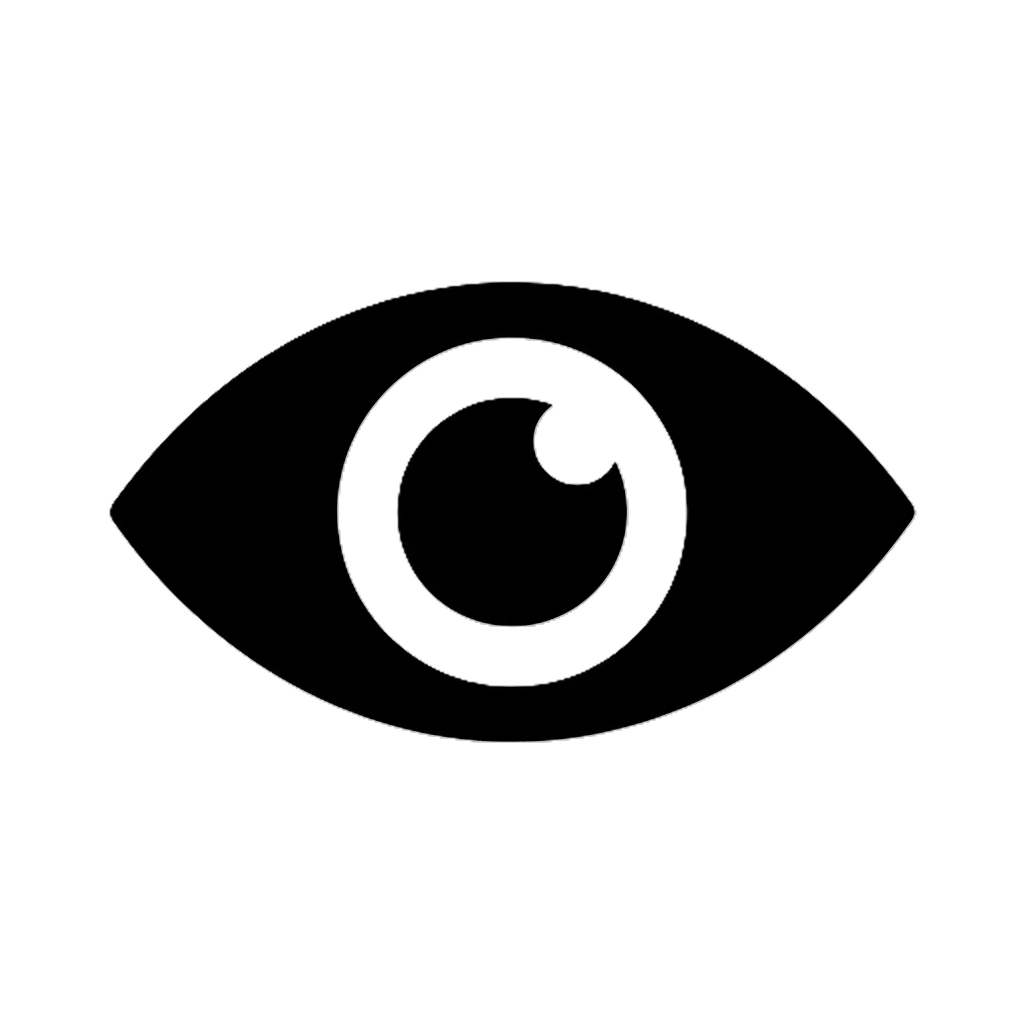
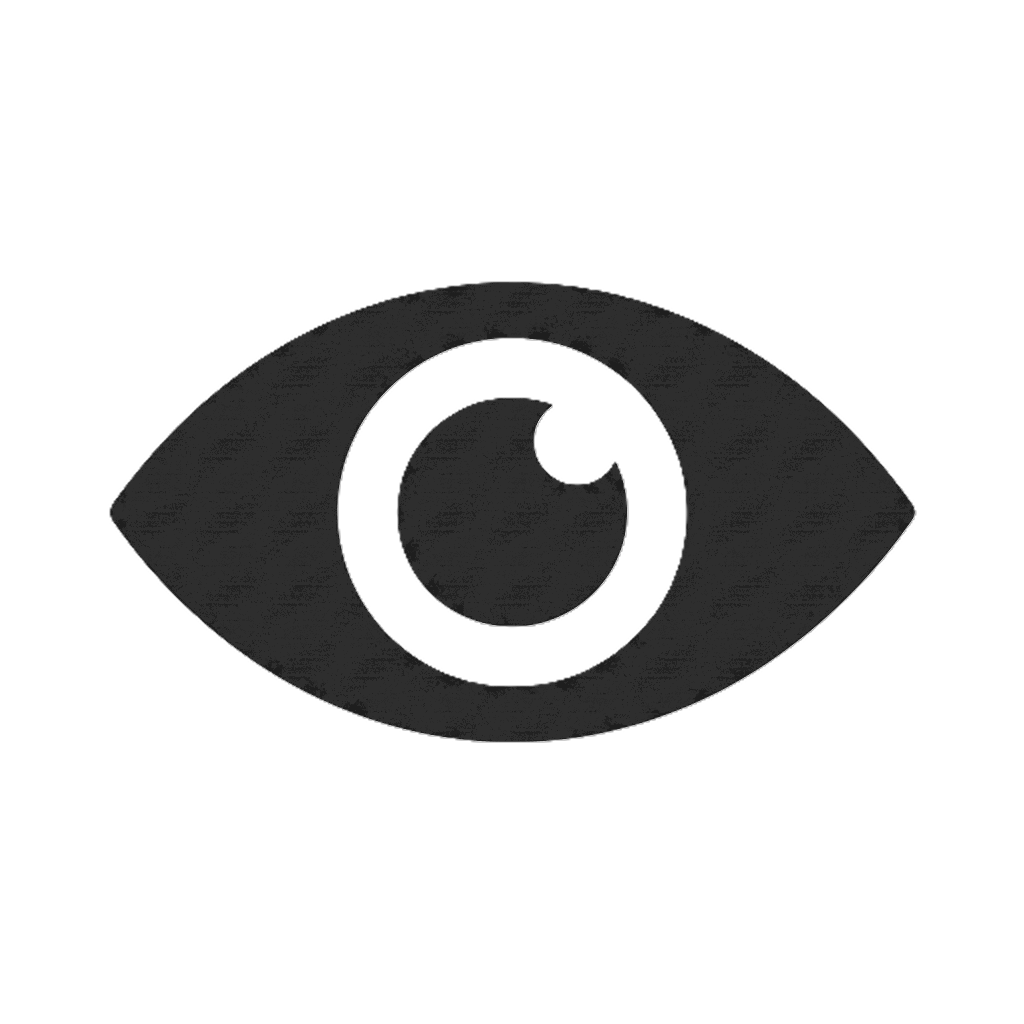
completed

Changed region(s): [[0.0938, 0.25, 0.9062, 0.75], [0.375, 0.375, 0.625, 0.625]]

diff --git a/app/Users/Signup/page.js b/app/Users/Signup/page.js
@@ -1,7 +1,7 @@
 "use client"
-import connectDB from '@/db/connectDB'
+
 import React from 'react'
-import { useState, useRef } from 'react'
+import { useState } from 'react'
 import { signUpAction } from '@/actions/signUpAction'
 import { ToastContainer, toast } from 'react-toastify'
 import { useRouter } from 'next/navigation'
@@ -12,9 +12,8 @@ const Signup = () => {
     const [userName, setUserName] = useState("")
     const [email, setEmail] = useState("")
     const [password, setPassword] = useState("")
+    const [passwordVisibility, setPasswordVisibility] = useState(false)
     const router = useRouter()
-    const passwordRef = useRef()
-    const eyeRef = useRef()
 
     const signUpHandle = async (e) => {
         e.preventDefault()
@@ -45,14 +44,7 @@ const Signup = () => {
     }
 
     const showPassword = () => {
-        passwordRef.current.type = 'password'
-        if (eyeRef.current.src.includes('/eyecross.png')) {
-            eyeRef.current.src = '/eye.png'
-            passwordRef.current.type = 'text'
-        } else {
-            eyeRef.current.src = '/eyecross.png'
-            passwordRef.current.type = 'password'
-        }
+       setPasswordVisibility(!passwordVisibility)
     }
 
     return (
@@ -70,8 +62,10 @@ const Signup = () => {
 
                         <label htmlFor="password">Password :</label>
                         <div className="pass relative">
-                            <input ref={passwordRef} onChange={(e) => setPassword(e.target.value)} value={password} type="password" name="password" placeholder="enter password" className='w-full px-3 py-1 border border-slate-300 rounded-lg' required />
-                            <span className="w-6 absolute top-[5px] right-4 cursor-pointer" onClick={showPassword}><img ref={eyeRef} src="/eyecross.png" alt="eye" /></span>
+                            <input onChange={(e) => setPassword(e.target.value)} value={password} type={passwordVisibility?"text":"password"} name="password" placeholder="enter password" className='w-full px-3 py-1 border border-slate-300 rounded-lg' required />
+                            <span className="w-6 absolute top-[5px] right-4 cursor-pointer" onClick={showPassword}>
+                                <img src={passwordVisibility?"/eye.png":"/eyecross.png"} alt="eye" />
+                            </span>
                         </div>
                         <button type="submit" className="text-white bg-gradient-to-r from-cyan-600 to-blue-600 hover:bg-gradient-to-bl focus:ring-2 focus:outline-none focus:ring-cyan-300 dark:focus:ring-cyan-800 font-medium rounded-lg text-sm px-1 py-2 text-center mt-6 mb-2 cursor-pointer">Sign Up</button>
                         <div className="bg-slate-400 h-0.5 my-1"></div>

diff --git a/components/LoginForm.js b/components/LoginForm.js
@@ -1,5 +1,5 @@
 "use client"
-import React, { useState, useEffect, useRef } from 'react'
+import React, { useState, useEffect } from 'react'
 import { toast } from 'react-toastify'
 import { signIn, useSession } from 'next-auth/react'
 import { useRouter } from 'next/navigation'
@@ -9,15 +9,14 @@ import { ToastContainer } from 'react-toastify'
 const Login = () => {
   const [email, setEmail] = useState("")
   const [password, setPassword] = useState("")
+  const [passwordVisibility, setPasswordVisibility] = useState(false)
   const router = useRouter();
   const { data: session, status } = useSession()
-  const passwordRef = useRef()
-  const eyeRef = useRef()
 
   //  useEffect will run after the component mounts and a session is loaded
   useEffect(() => {
     if (status === 'authenticated') {
-        router.push('/Home')
+      router.push('/Home')
     }
   }, [status, router])
 
@@ -37,14 +36,7 @@ const Login = () => {
   }
 
   const showPassword = () => {
-    passwordRef.current.type = 'password'
-    if (eyeRef.current.src.includes('/eyecross.png')) {
-      eyeRef.current.src = '/eye.png'
-      passwordRef.current.type = 'text'
-    } else {
-      eyeRef.current.src = '/eyecross.png'
-      passwordRef.current.type = 'password'
-    }
+    setPasswordVisibility(!passwordVisibility);
   }
 
 
@@ -63,8 +55,10 @@ const Login = () => {
 
             <label htmlFor="password">Password :</label>
             <div className="pass relative">
-              <input ref={passwordRef} onChange={(e) => setPassword(e.target.value)} value={password} type="password" name="password" placeholder="enter password" className='px-3 py-1 border border-slate-300 rounded-lg w-full' required />
-              <span className="w-6 absolute top-[5px] right-4 cursor-pointer" onClick={showPassword}><img ref={eyeRef} src="/eyecross.png" alt="eye" /></span>
+              <input onChange={(e) => setPassword(e.target.value)} value={password} type={passwordVisibility?"text":"password"} name="password" placeholder="enter password" className='px-3 py-1 border border-slate-300 rounded-lg w-full' required />
+              <span className="w-6 absolute top-[5px] right-4 cursor-pointer" onClick={showPassword}>
+                <img src={passwordVisibility ?"/eye.png" : "/eyecross.png"} alt="eye" />
+              </span>
             </div>
             <button type="submit" className="text-white bg-gradient-to-r from-cyan-600 to-blue-600 hover:bg-gradient-to-bl focus:ring-2 focus:outline-none focus:ring-cyan-300 dark:focus:ring-cyan-800 font-medium rounded-lg text-sm px-1 py-2 text-center mt-6 mb-2 cursor-pointer">Login</button>
 

diff --git a/components/ItemDetailsClient.js b/components/ItemDetailsClient.js
@@ -25,8 +25,8 @@ const ItemDetailsClient = ({ itemInfo }) => {
       <div className="p-4 h-[95%] border border-slate-400 bg-gray-300 rounded-lg shadow-lg flex flex-col justify-center items-center w-[90%] md:w-[50%]">
         <h2 className="text-2xl font-bold">{itemInfo.role}</h2>
         <p className="text-gray-600 font-semibold">{itemInfo.itemName}</p>
-        <div className="image h-[95%] w-[80%] overflow-hidden mt-3">
-        <Image src={itemInfo.image} alt={itemInfo.itemName} height={300} width={300} className="w-full h-full mx-auto rounded-lg" />
+        <div className="image h-[95%] w-full md:w-[80%] overflow-hidden mt-3">
+          <Image src={itemInfo.image} alt={itemInfo.itemName} height={300} width={300} className="w-full h-full mx-auto rounded-lg" />
         </div>
         <p className="mt-2 text-sm text-gray-500">
           Posted by: <span className="font-semibold">{ownerName}</span>
